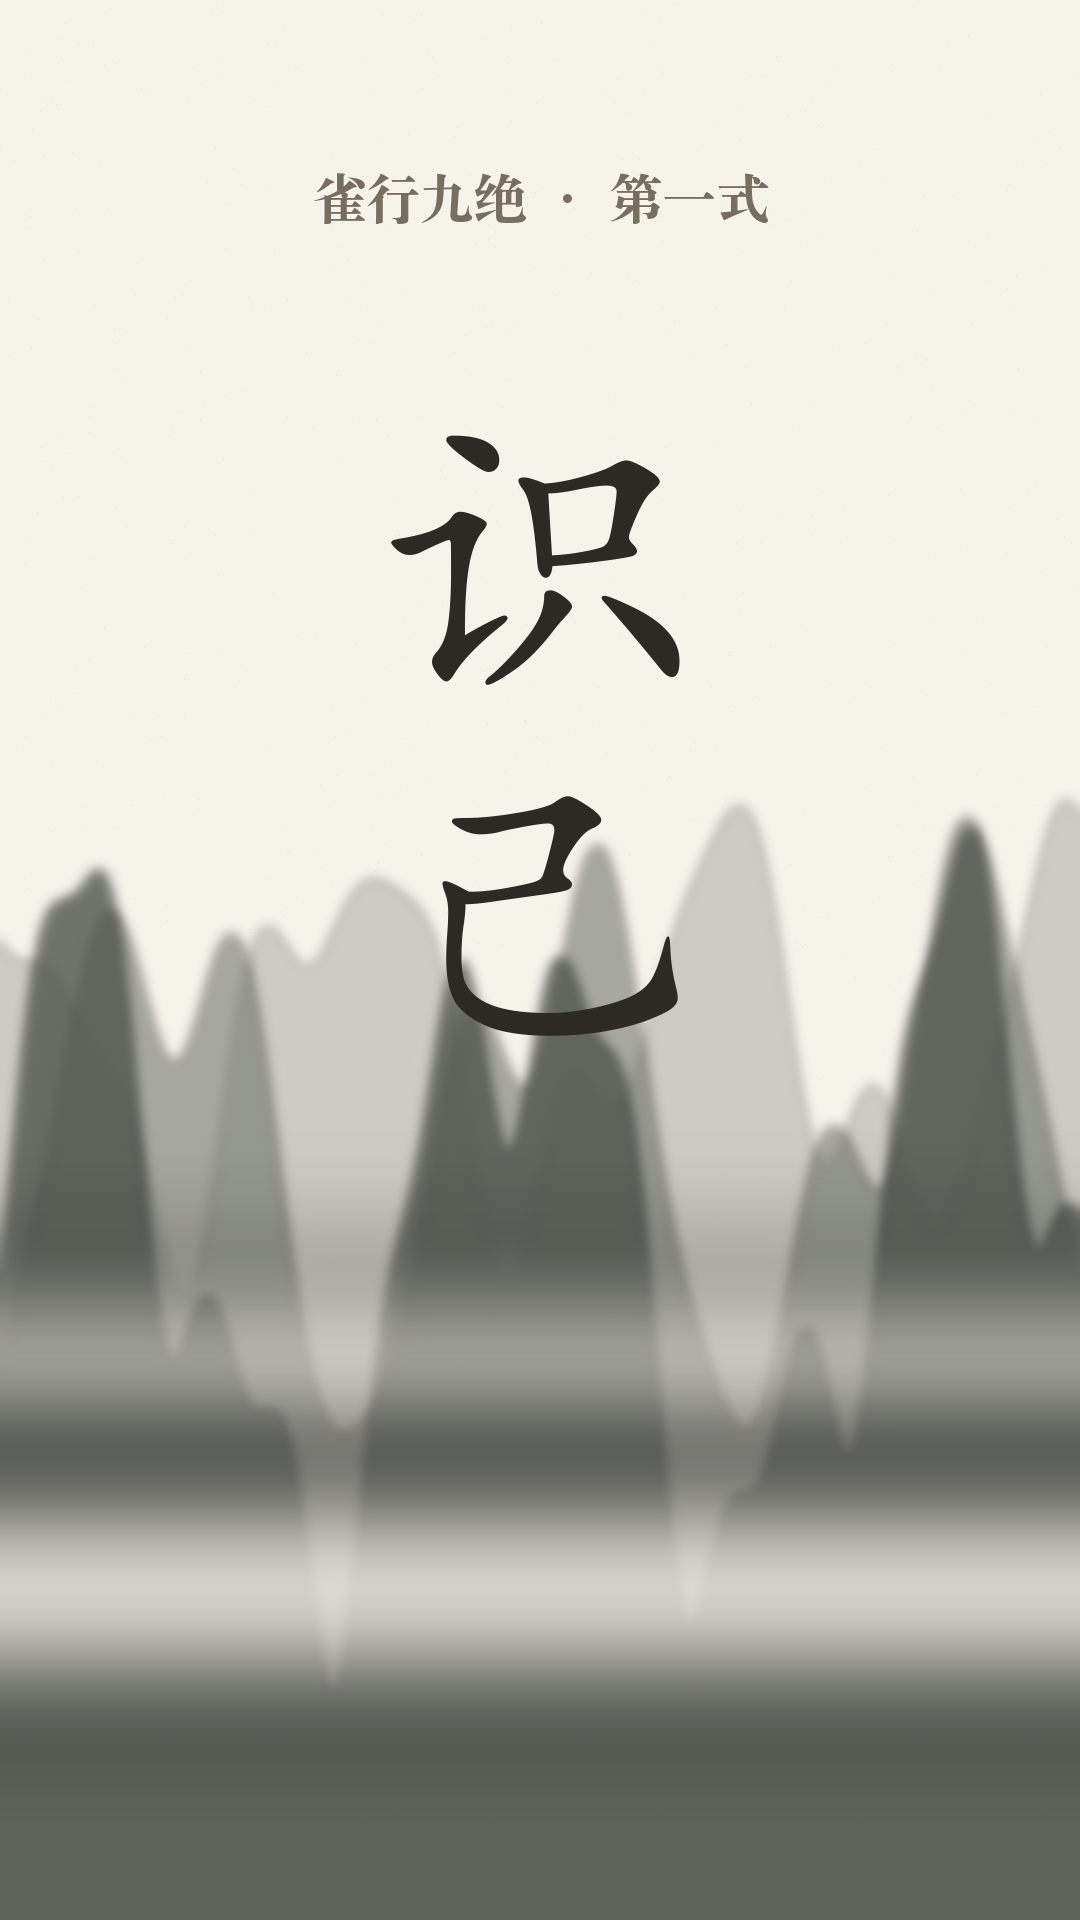
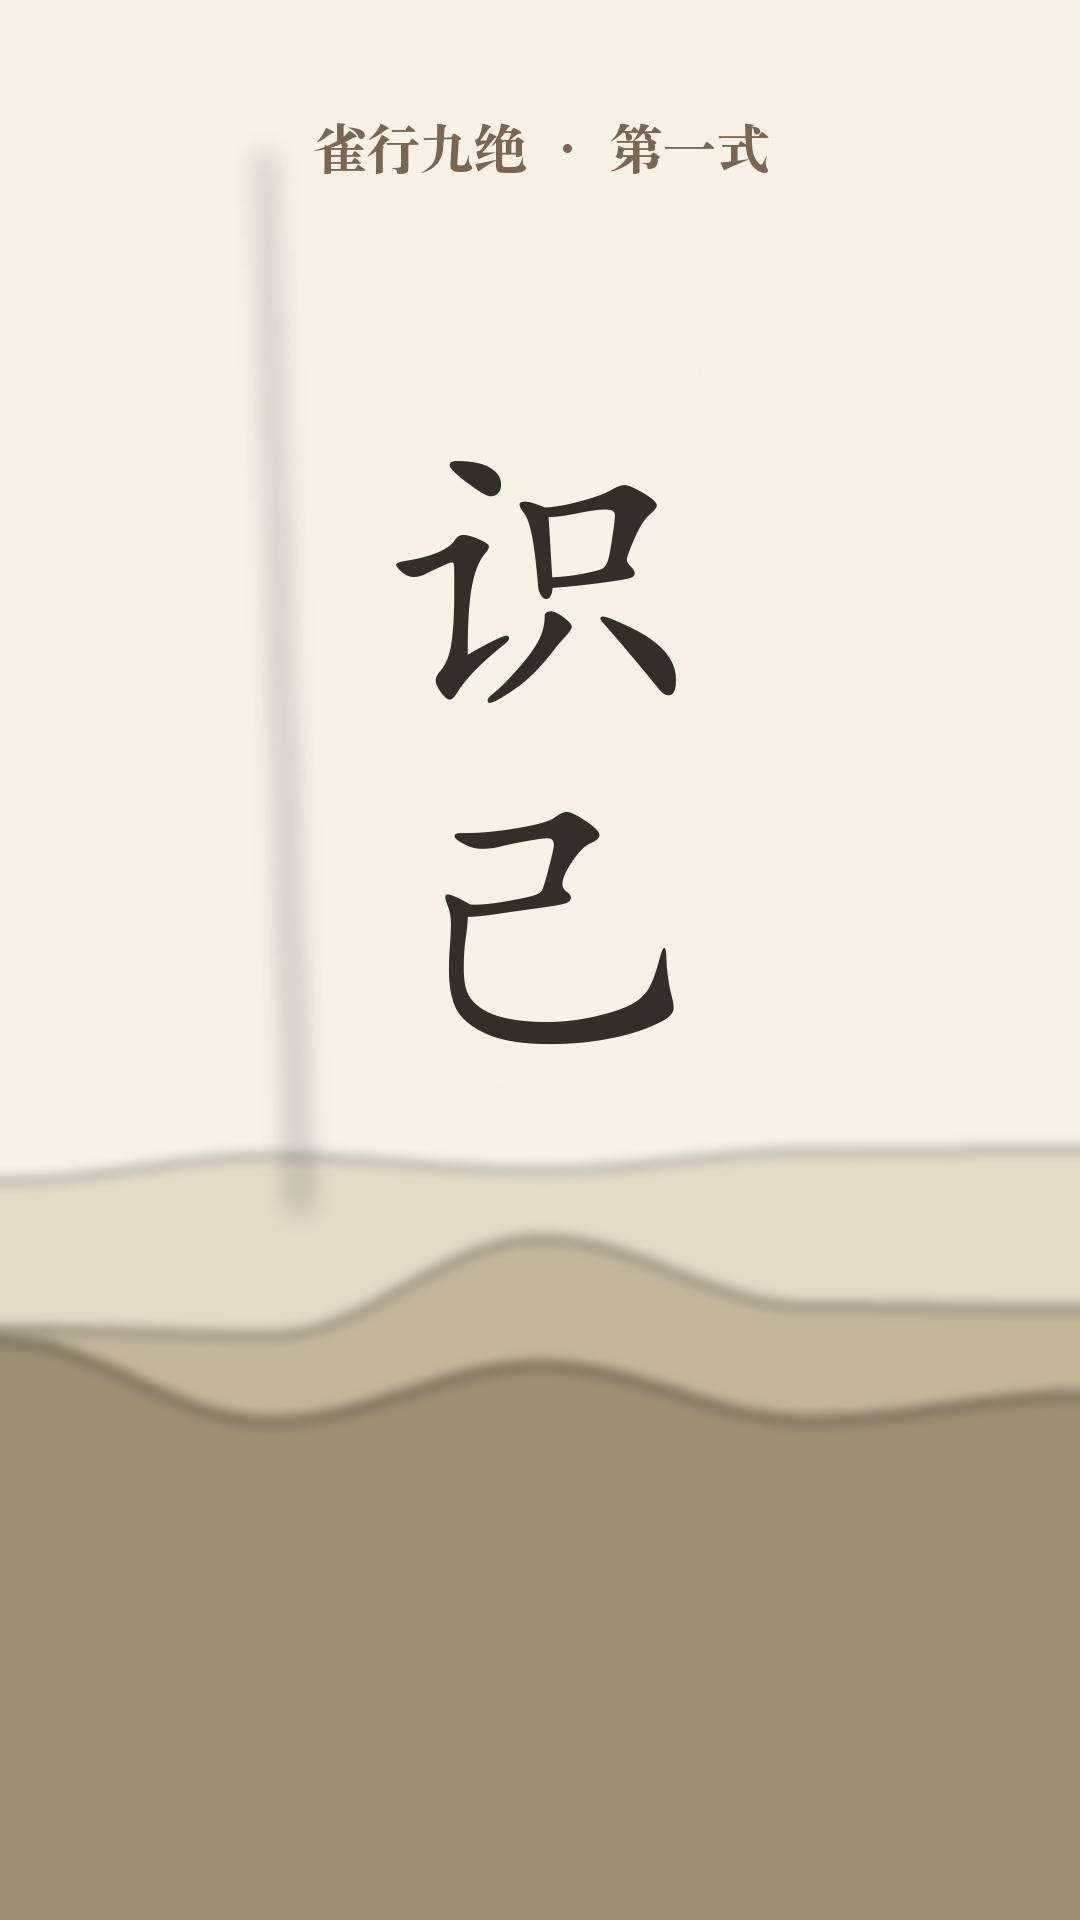
feat: 四境四景背景体系——大漠/江河/大海/云海九张水墨底图，脚本画面设定同步更新

diff --git a/content/videos/jiujue/scripts-v3.md b/content/videos/jiujue/scripts-v3.md
@@ -9,7 +9,7 @@
 ## 制作模式
 
 1. **讲述者形象**：张三丰式仙风道骨老者（白须、道袍、水墨风），AI 生成统一形象，贯穿九集；每集同一人物、不同姿态与背景，形成"老掌门开讲"的系列感。
-2. 背景：水墨/纯色底/麻将牌特写，10 张以内轮换。
+2. 背景：**四境四景**——立身=大漠、得法=江河、观势=大海、天成=天空/云海。视觉叙事：从大漠出发 → 渡江入江湖 → 到海边观潮 → 登上云海之上，背景随境界爬升。9 张底图见 `assets/背景/`。
 3. 口播：剪映免费 AI 配音（沉稳解说类音色）。
 4. 字幕：口播全文上字幕，重点句放大。
 5. 结尾：统一片尾卡「雀行九绝 · 第X式 <式名>」。
@@ -25,7 +25,7 @@
 
 麻将之道，第一不在牌，在人。天下习牌者，可分四品。敏于算者，如黄蓉，冰雪聪明，机变百出，一眼便知牌堆里还剩几张；明于察者，如令狐冲，一言观人，入木三分，对手一个迟疑，他便心中了然；定于心者，如郭靖、萧峰、陈家洛，泰山崩于前，而色不变，连输十局，手上功夫不乱分毫；至于万中无一者，如扫地僧，大巧不工，深不可测，坐在那里，便是规矩。四品之人，四路打法：敏算者宜快攻，明察者宜控局，心定者宜久战。前三品，练而得之；末一品，悟而通之。雀行九绝，第一式，识己。坐上牌桌之前，先看清自己是何等人。知己，方能知牌。知己者，行远。
 
-**画面：** 老者立于水墨山门之前，负手远望；无牌。
+**画面：** 大漠孤烟，老掌门立于长路起点，负手远望；无牌。
 **字幕重点：** 「麻将之道，第一在人」「四品之人，四路打法」「知己者，行远」
 
 ## 第二式 · 立本
@@ -34,7 +34,7 @@
 
 世人求绝招，不知绝招误人。牌上功夫，无非三件小事：记牌、算张、复盘。皆枯燥，然高手日日为之，十年不辍。赢一局者，或凭运气；久输者，必是根基不牢。至简之动作，重复万遍，便成本能。然根基之上，还须守一条底线：规矩。何时可进，何时当退，何牌不可碰——规矩非缚人之绳，乃护人之底。牌桌上败得最惨者，从来不是技低之人，而是不守规矩之人。牌品即人品。雀行九绝，第二式，立本。根深而守正，方为立身之道。慢，即是快。
 
-**画面：** 老者于太极图前静坐，太极缓转（动效）；无牌。
+**画面：** 大漠日出，太极图悬于沙丘之上缓转（动效），老掌门静坐；无牌。
 **字幕重点：** 「绝招误人，基本功立身」「规矩非绳，乃底」「慢，即是快」
 
 ---
@@ -47,7 +47,7 @@
 
 口诀授人以拆搭，然口诀是死，牌局是活。上局之良策，此局或成陷阱。昔年郭靖习降龙十八掌，同一招亢龙有悔，敌不同，则出掌亦不同：对莽夫，正面强攻；对高手，留三分余力。牌桌之上亦然。手中一对好搭，闲时当留，急时当拆；口诀教留，局面教拆，听口诀，还是听局面？高手不记招式，只问一事：此局，何者为先？雀行九绝，第三式，通变。招熟于手，法通于心。下一局摸牌之前，先问自己这一句。
 
-**画面：** 老者立于牌案侧，案上三两张牌；牌第一次进场。
+**画面：** 江水分叉，一叶扁舟，老掌门立于牌案侧，案上三两张牌；牌进场。
 **字幕重点：** 「口诀是死，牌局是活」「招熟于手，法通于心」
 
 ## 第四式 · 察人
@@ -56,7 +56,7 @@
 
 麻将者，一桌三人，皆是对手。你打的不是牌，是人。同一张牌，出在急躁者面前，是试；出在沉稳者面前，是探。彼何等脾性？小胜欲走，抑或欲吞大局？方才那一轮碰牌，手快了，还是慢了？此中消息，胜读牌谱百卷。读牌者，算概率；读人者，算人心。概率有穷，人心无底。雀行九绝，第四式，察人。牌桌之上，抬眼即是学问：多看人一眼，少输一手牌。
 
-**画面：** 老者于牌桌一角旁观，桌上三只手。
+**画面：** 江上渡口，对岸人影往来，老掌门于舟中旁观，桌上三只手。
 **字幕重点：** 「你打的不是牌，是人」「读牌算概率，读人算人心」
 
 ## 第五式 · 舍得
@@ -65,7 +65,7 @@
 
 每一张舍出之牌，皆是一场抉择。手里抓着一对好搭，对面刚打出一张生张——留，还是走？不舍孤张，守不住搭子；不舍小胡，等不来大胡。牌桌教人一事：万事难两全。敢舍，是一种狠劲；知舍什么，是一种见识。敢于舍者，方知何为真取。人生，亦如是：你不敢舍的，终将拖住你。雀行九绝，第五式，舍得。舍，非失也，选定方向也。下一张牌出手之前，先想清楚：你要什么。
 
-**画面：** 老者袖手立于案后，一张牌被缓缓推出（特写）。
+**画面：** 江心船头，老掌门袖手而立，一张牌随水漂去（特写）。
 **字幕重点：** 「万事难两全」「舍，非失也，选定方向也」
 
 ---
@@ -78,7 +78,7 @@
 
 牌桌之上，有物曰势。顺时，摸什么，来什么；背时，做什么，缺什么。势者无形，却有迹可循：谁家连庄，河中何牌络绎不绝，何人摸牌的手越来越快——新手只见手中十三张，高手看的是满桌。势顺，则快，乘胜而进，宜压宜逼；势背，则慢，守本而熬，宜弃宜忍。逆势强攻者，终成炮手。雀行九绝，第六式，观势。低头数牌，不如抬头观浪。风来之时，方知谁会扬帆。
 
-**画面：** 俯瞰整张牌桌，牌河如水纹铺开，老者立于桌侧远望。
+**画面：** 海边观潮，巨浪排空，老掌门立于礁石远望，牌河如潮水铺开。
 **字幕重点：** 「新手看十三张，高手看满桌」「势顺则快，势背则慢」
 
 ## 第七式 · 藏锋
@@ -87,7 +87,7 @@
 
 得大牌而形于色者，无异于亮底牌于众。你一喜，人即防；你一急，人即退。牌桌之上，最贵者非好牌，是一张不动的脸。真正高手，得天牌与得烂牌，面色如一；快听牌之际，摸牌的手，慢半拍，稳三分。剑客藏锋，为出鞘一瞬；牌客藏锋，为听牌那一张。雀行九绝，第七式，藏锋。你的脸，是你打出的第一张牌。藏得住的人，才配锋芒。
 
-**画面：** 老者持牌，牌面朝下，目光平静；近景特写。
+**画面：** 海面无波，水平如镜；老掌门持牌（牌面朝下）近景特写。
 **字幕重点：** 「得天牌与得烂牌，面色如一」「你的脸，是你打出的第一张牌」
 
 ---
@@ -100,7 +100,7 @@
 
 连败八局，尚能坐否？大牌既胡，还能静否？牌至高处，所较者非技，乃心。牌桌是一面镜子：你贪，牌知之，张张都像能胡；你慌，牌亦知之，步步走样。急欲翻本者，败之更速；心浮气躁者，好牌亦烂。所谓修为，不在赢时，在连输之后，手上功夫不乱。雀行九绝，第八式，观心。制其手，先制其心。心定，则牌定。
 
-**画面：** 老者独坐空案前，案上无牌，墨色留白。
+**画面：** 高山之巅，云海月下，老掌门独坐空案前，案上无牌。
 **字幕重点：** 「所较者非技，乃心」「制其手，先制其心」「心定，则牌定」
 
 ## 第九式 · 鬼神（收式）
@@ -109,7 +109,7 @@
 
 东瀛麻坛，相传一境，名曰鬼神：看穿牌山，读破手牌，如明牌而战。举国公认达此境者，唯一人而已。其所恃者，非术，乃天分、十万局之沉淀、一点之悟。吾辈穷尽一生，或难至其境。然知山之高，方不自居峰顶。九式讲尽，通篇未授一张牌之打法——盖因道理，说破不值一钱，做到方是无价。雀行九绝，末式，鬼神。知山高者，始能登山。懂了道理，便去打一百局。真功夫，在牌桌之上。
 
-**画面：** 暗色山影，老者背影立于山道起点，山巅一点灯火（金色「鬼神」二字）。
+**画面：** 星空之下云海翻涌，老掌门背影立于山道起点，山巅一点灯火（金色「鬼神」二字）。
 **字幕重点：** 「如明牌而战」「说破不值一钱，做到方是无价」「真功夫，在牌桌之上」（未解锁档位替换为"下一式，需要你走得更远"）
 
 ---
